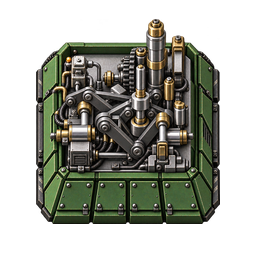
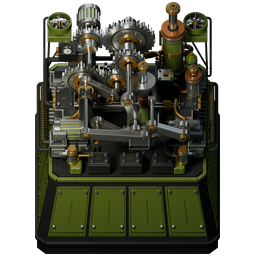
Add final planetary assembler artwork and native activity animations
Final implementation reconstructed from preserved source b9f1b814f22a933c26331057290e0a84558d867f.

diff --git a/README.md b/README.md
@@ -1,38 +1,27 @@
 # Advanced Assembly Machines: Improved
 
-A Factorio 2.0 fork of Advanced Assembly Machines Returns and Altarin's Space Age port. Compact 3x3 machines with distinct animated graphics and five crafting-speed tiers.
+Five tiers of fast assemblers, redesigned for compact factories.
 
-| Crafting speed | Color | Design | Active power (normal quality, no modules) |
-|---|---|---|---|
-| 20 | Green | Refined vanilla mechanical assembly | 3.75 MW |
-| 40 | Orange | Vulcanus metalworking press | 7.5 MW |
-| 80 | Purple | Fulgora electronics assembly | 15 MW |
-| 160 | Blue | Aquilo cryogenic precision work | 30 MW |
-| 320 | White | Final advanced processing chamber | 60 MW |
+**Factorio 2.1 · Version 1.1.4**
 
-Colors follow Matt's Logistics belts. Each tier has its own internal machinery; only the white tier shows the fictional dark-matter effect. These visuals do not add a dark-matter resource or change the selected recipe. Tooling and the final chamber animate through Factorio's native renderer while crafting. There is no runtime Lua script.
+## Fork changes
 
-The original speed-20 recipe, technology, power use and startup options are retained. Module slots remain configurable from 3 to 6 (default 4); the optional Space Age productivity bonus remains 50% and is off by default. Higher tiers require two previous-tier machines, more modules and advanced materials, and progressively more research and power. With Space Age, their recipes and research use Vulcanus, Fulgora and Aquilo materials and technology; the final tier requires quantum processors. Without the DLC, they use base-game materials and science.
+- Compact 3×3 machines with five planetary art styles, weathering and working effects.
+- Native 48-frame production animations with a static idle state and improved recipe-icon placement.
+- Accessible starter recipes and lower power requirements across the five tiers. Crafting speeds remain 20, 40, 80, 160 and 320.
+- Independent planetary production milestones for higher tiers with Space Age, plus normal science progression without it.
+- Updated Factorio 2.1 prototypes and loading support with or without Space Age, including Quality and Recycler without Space Age.
 
-All five remain multipurpose assembling machines, with the port's crafting categories and two fluid inputs/two outputs. The art themes do not restrict them to their pictured manufacturing task. Actual recipe surface requirements still apply.
+Module slots remain configurable from three to six, with four by default. The optional Space Age productivity bonus is 50% and is disabled by default. Planetary artwork does not limit which supported recipes a machine can craft.
 
-## Installation and existing saves
+## Installation
 
-Download the ZIP from [Releases](https://github.com/FactorioMods/advanced-assembling-machine-improved/releases) into your Factorio mods directory. Disable Advanced Assembly Machines Returns and its Space Age port before enabling this mod. They define the same original prototypes and cannot be enabled together.
+Requires Factorio 2.1.23+. Disable `advanced-assembling-machine-returns` and `advanced-assembling-machine-returns-to-Space-Age` before enabling this fork. Existing machines retain their names and positions. When replacing the old 5×5 footprint, move adjacent inserters, pipes and loaders one tile closer; old blueprints need the same adjustment.
 
-Existing speed-20 machines, items, recipes and research keep their prototype names. The footprint changes from 5x5 to 3x3: previously adjacent inserters, loaders and pipes need to be moved one tile closer. Existing machine positions are retained; old blueprints need the same layout adjustment. Back up your save before switching mods. Multiplayer players need the same mod version and startup settings.
+See [recipes and progression](docs/RECIPES.md) for costs, unlocks and layout details.
 
-## Validation
-
-Tested with Factorio 2.0.77 in isolated game data directories. Loading a copy of New_clean retained all 40 existing advanced machines. The functional fixture exercised all five machines with all nine installed Miniloaders Redux tiers, including Matt's Logistics variants: 45 input/output combinations. Two-input/two-output fluid production passed at all four rotations for every machine. Ordinary inserters supplied the three-tile machine from all four sides. Native rendering and a base-game-only load were also checked.
-
-This is a graphics, footprint and progression fork. Code cleanup removes a redundant vanilla recipe-category definition, an obsolete mining field, hardcoded references to absent categories, and malformed locale data. The upstream already uses native crafting rather than per-tick Lua; no measured UPS gain is attributed to these changes.
+[Mod Portal](https://mods.factorio.com/mod/advanced-assembling-machine-improved) · [Source](https://github.com/FactorioMods/advanced-assembling-machine-improved) · [Downloads](https://github.com/FactorioMods/advanced-assembling-machine-improved/releases) · [Validation](FACTORIO-2.1.md)
 
 ## Credits
 
-- [Advanced assembly machines](https://mods.factorio.com/mod/assembling-machine-up) by badway.
-- [Advanced Assembly Machines Returns](https://mods.factorio.com/mod/advanced-assembling-machine-returns) by ElizTriad.
-- [Space Age port](https://mods.factorio.com/mod/advanced-assembling-machine-returns-to-Space-Age) by Altarin; Chinese locale by Houraiji_Kyuusyou.
-- Fork maintained by johnmart19. New machine artwork and native animation assets included under the Unlicense.
-
-Matt's Logistics is a palette reference and tested companion mod; it is not required. This repository is independently created because no upstream source repository is listed.
+Based on work by badway, ElizTriad and Altarin; Chinese locale by Houraiji_Kyuusyou. Maintained by johnmart19 under the [Unlicense](LICENSE).
